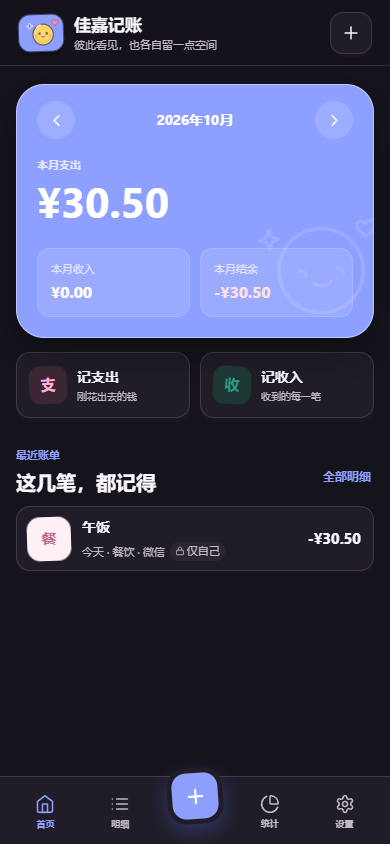
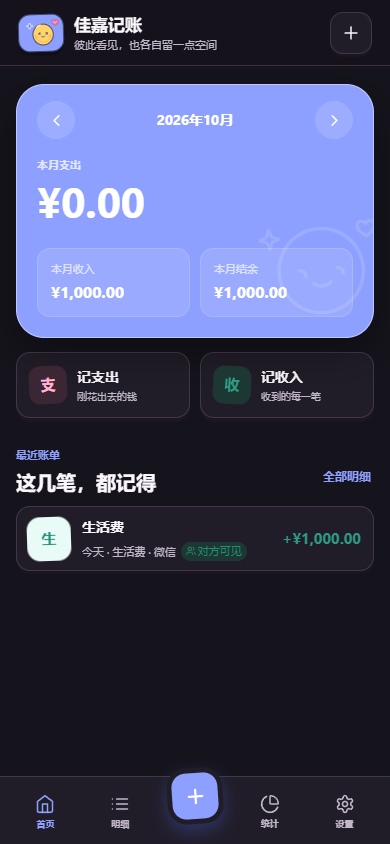
fix: refresh shared pairing state in settings

diff --git a/app.js b/app.js
@@ -730,6 +730,13 @@
     document.querySelectorAll(".tab").forEach((button) => {
       button.classList.toggle("is-on", button.dataset.view === view);
     });
+    if (view === "settings") {
+      renderSettings();
+      if (state.mode === "cloud") {
+        refreshCloudProfile(false);
+        refreshCloudTransactions(false);
+      }
+    }
     if (location.hash !== `#${view}`) history.replaceState(null, "", `#${view}`);
     window.scrollTo({ top: 0, behavior: "auto" });
   }

diff --git a/sw.js b/sw.js
@@ -1,5 +1,5 @@
 /* 改动页面文件后同步提升 CACHE 版本，联网时会优先取新版本。 */
-const CACHE = "jiajia-ledger-v3";
+const CACHE = "jiajia-ledger-v4";
 const ASSETS = [
   "./",
   "./index.html",

diff --git a/更新日志.md b/更新日志.md
@@ -8,6 +8,7 @@
 - 小金币与多多的云朵共用点眼、微笑和深紫描边，使用暖黄身体、蓝色星芒和粉色爱心形成对应关系。
 - 页头、首页水印、空状态、关于卡片和应用图标均已接入小金币。
 - 王冠式的共享双圆点保留在图标左上角，用于区分佳嘉记账与多多钱包。
+- 与多多钱包端到端验证通过：两个应用使用同一配对码互连、共享内容可互看、私密账单独占、对方内容只读。
 
 ## 2026-10-17 v1.0.0
 

diff --git a/README.md b/README.md
@@ -28,6 +28,7 @@
 5. 双方分别注册账号；一方把 6 位配对码发给另一方完成配对。
 
 不要把 `service_role` key 填进应用。应用只需要 Project URL 和 anon public key。
+多多钱包也使用同一份数据库脚本；两个应用只需在同一个 Supabase 项目执行一次。
 
 ## 本机与云端
 
